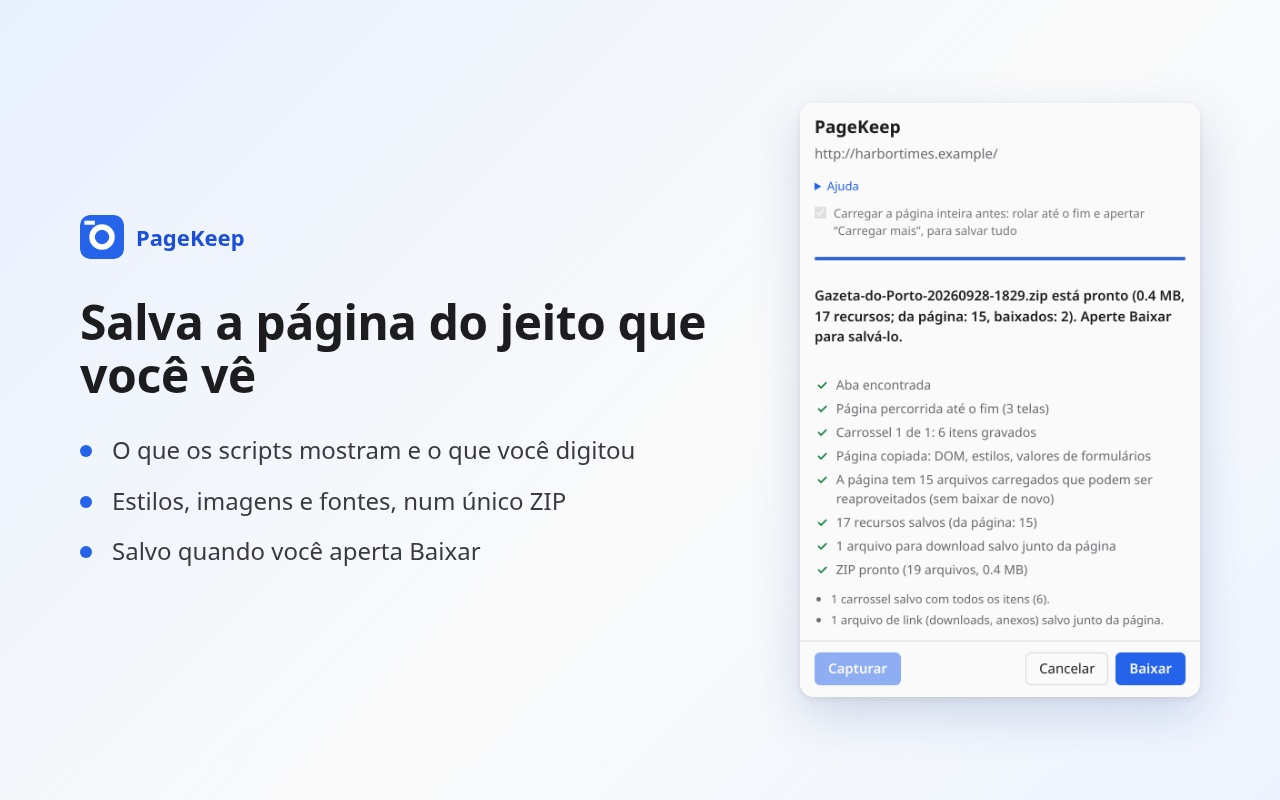
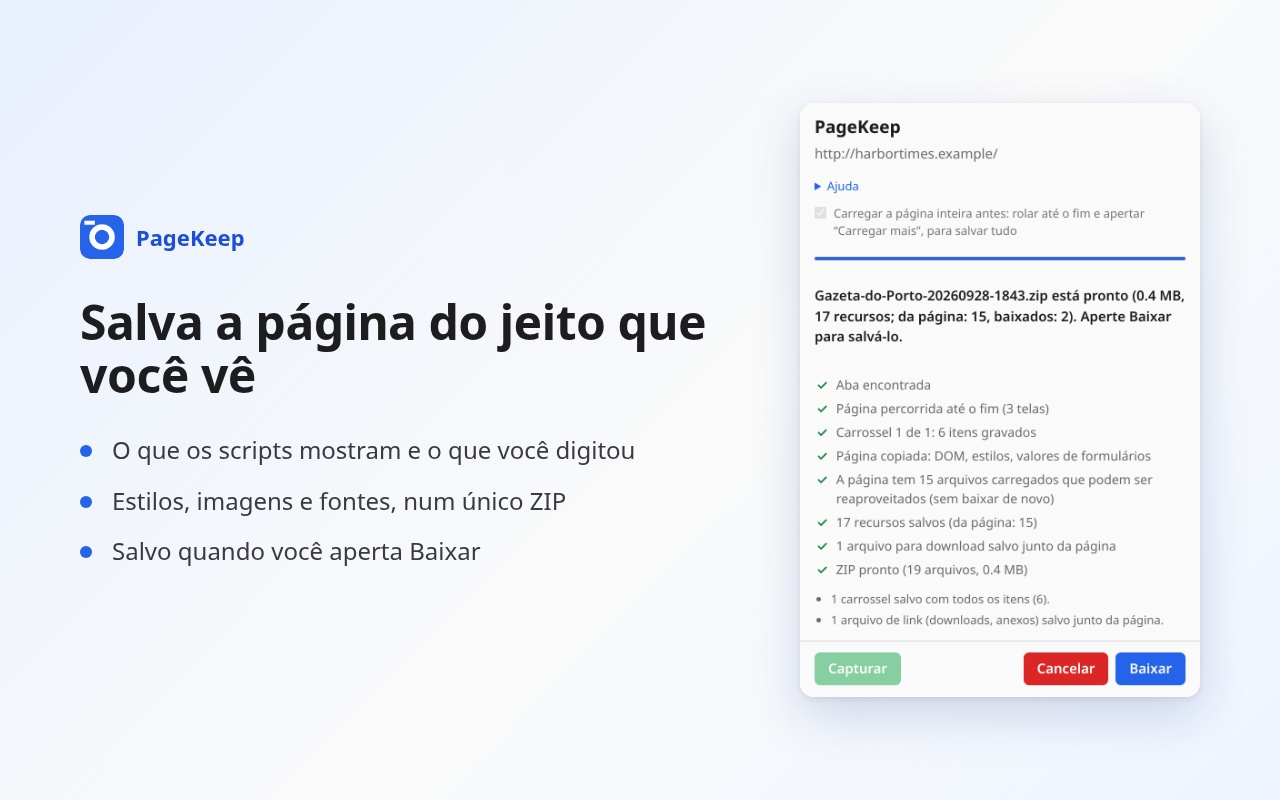
Popup: Snapshot in green, Cancel in red
Filled buttons with white text, like Download in blue; --go and --stop
colour tokens with dark-theme values. Screenshots, store pictures and
the README pictures regenerated.

Changed region(s): [[0.7812, 0.8125, 0.875, 0.875], [0.625, 0.8125, 0.7188, 0.875]]

diff --git a/page-snapshot-extension/popup.css b/page-snapshot-extension/popup.css
@@ -1,9 +1,10 @@
 :root {
   color-scheme: light dark;
   --bg: #fafafa; --fg: #1d1d1f; --muted: #6b6b70; --accent: #2563eb; --error: #b91c1c; --line: #d8d8dc; --ok: #15803d; --warn: #b45309;
+  --go: #16a34a; --stop: #dc2626; /* Snapshot and Cancel */
 }
 @media (prefers-color-scheme: dark) {
-  :root { --bg: #17171a; --fg: #ececf0; --muted: #9a9aa2; --accent: #6ea0ff; --error: #ff8080; --line: #34343a; --ok: #4ade80; --warn: #fbbf24; }
+  :root { --bg: #17171a; --fg: #ececf0; --muted: #9a9aa2; --accent: #6ea0ff; --error: #ff8080; --line: #34343a; --ok: #4ade80; --warn: #fbbf24; --go: #15803d; --stop: #b91c1c; }
 }
 body { margin: 0; width: 440px; background: var(--bg); color: var(--fg); font: 15px/1.5 system-ui, sans-serif; }
 main { margin: 12px 0; padding: 0 16px; }
@@ -17,6 +18,11 @@ button:hover:not(:disabled) { border-color: var(--accent); }
 button:disabled { opacity: .5; cursor: default; }
 button.primary { background: var(--accent); border-color: var(--accent); color: var(--bg); font-weight: 600; }
 #snapshot { margin-right: auto; }
+/* Snapshot in green and Cancel in red, like Download in blue: filled, with white text. */
+#snapshot, #cancel { color: #fff; font-weight: 600; }
+#snapshot { background: var(--go); border-color: var(--go); }
+#cancel { background: var(--stop); border-color: var(--stop); }
+#snapshot:hover:not(:disabled), #cancel:hover:not(:disabled) { filter: brightness(1.1); }
 details { margin-top: 12px; }
 #help { margin: 0 0 8px; font-size: 13px; }
 #help summary { cursor: pointer; color: var(--accent); }

diff --git a/CHANGELOG.md b/CHANGELOG.md
@@ -6,6 +6,8 @@ publishes it as the release's notes.
 
 ## [Unreleased]
 
+- The popup's Snapshot button is green and Cancel is red.
+
 ## [1.4.0] - 2026-09-28
 
 - New popup flow: the popup opens without starting anything and offers **Snapshot**, **Cancel** and
